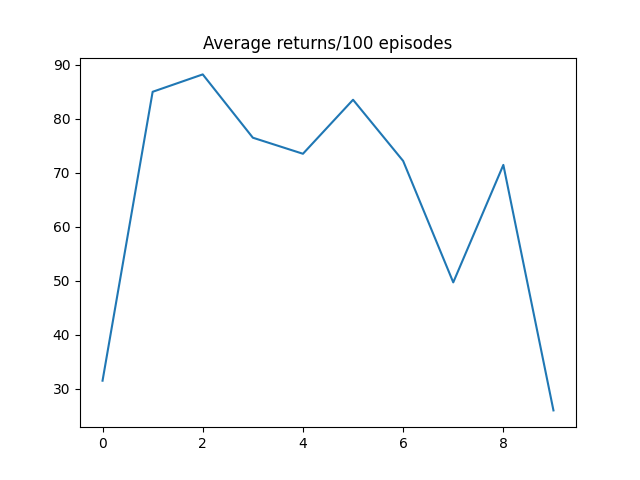
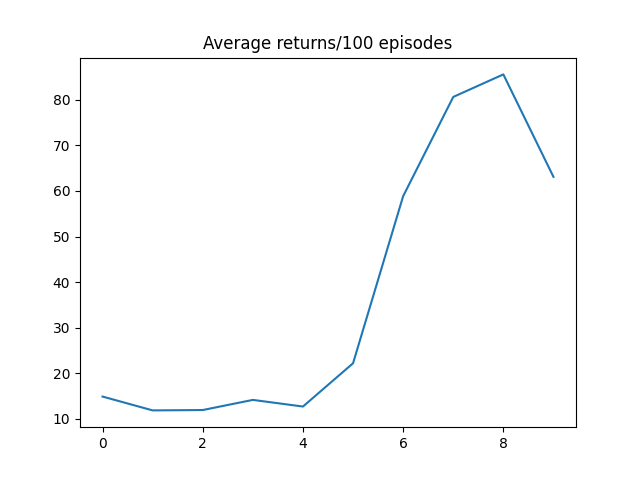
Adjust target value of final states. Learning is visible now!

diff --git a/dqn/agent.py b/dqn/agent.py
@@ -22,7 +22,8 @@ class DQNAgent:
                  epsilon_max: Optional[float] = None,
                  epsilon_min: Optional[float] = None,
                  epsilon_decay: Optional[float] = None,
-                 soft_update: bool = False):
+                 soft_update: bool = False,
+                 weight_copy_rate: int = 3000):
         """
         :param num_states: Number of states.
         :param num_actions: Number of actions.
@@ -48,10 +49,11 @@ class DQNAgent:
         self.buffer = ReplayBuffer(self.buffer_capacity, tuple([self.obs_dim])) # initialise replay buffer
 
         self.target_nn = QModel(obs_dim, num_actions) # setup w-
-        self.copy_nn()
+        #self.copy_nn()
 
         self.training_steps = 0 # keep count of the amount of training steps done (to replace target network)
         self.soft_update = soft_update
+        self.weight_copy_rate = weight_copy_rate
 
     def greedy_action(self, observation) -> int:
         """
@@ -98,7 +100,7 @@ class DQNAgent:
                 self.target_nn.state_dict()[weight_idx] = self.nn.state_dict()[weight_idx] * 0.005 + self.target_nn.state_dict()[weight_idx] * (1 - 0.005)
         else:
             self.training_steps += 1
-            if (self.training_steps == 10000): # chosen as constant, could also be a parameter. 1000 yields best average returns
+            if (self.training_steps == self.weight_copy_rate): # chosen as constant, could also be a parameter
                 self.training_steps = 0
                 self.copy_nn()
 
@@ -108,14 +110,17 @@ class DQNAgent:
         #q(St, a)
         state_action_values = self.nn(states) # [batch_size, 2]
         
-        idx = torch.unsqueeze(torch.from_numpy(actions), 1) # expand the dimension of actions to allow for use in torch.gather => [batch_size, 1]
+        idx = torch.unsqueeze(torch.from_numpy(actions), 1) # expand the nr of dimensions of actions to allow for use in torch.gather => [batch_size, 1]
         estimates = torch.gather(state_action_values, 1, idx) # get correct action_values
-        
+    
 
         # max qw-(St+1, a)
         with torch.no_grad():
-            next_state_values, _ = self.target_nn(next_states).max(1) # return max entry along axis 1
-        targets = torch.tensor(rewards) + (self.gamma * next_state_values) # [batch_size]
+            next_state_values= self.target_nn(next_states).max(1)[0] # return max entry along axis 1
+            for i in range(31):
+                if dones[i]:
+                    next_state_values[i] = 0 # ensure final states have target value of 0 !!!!
+        targets = torch.from_numpy(rewards) + (self.gamma * next_state_values)# [batch_size]
 
         criterion = torch.nn.MSELoss()
 
@@ -134,5 +139,7 @@ class DQNAgent:
 
     def copy_nn(self): # replaces w- with w
         self.learning_rate *= self.learning_rate
+        #self.weight_copy_rate *= 2
+        print("Copied weights")
         self.target_nn.load_state_dict(self.nn.state_dict())
 

diff --git a/dqn/runner.py b/dqn/runner.py
@@ -38,7 +38,7 @@ def run_episode(env: Env, agent: DQNAgent, training: bool, gamma) -> float:
 def train(env: Env, gamma: float, num_episodes: int, evaluate_every: int, num_evaluation_episodes: int,
           alpha: float, buffer_capacity: int, batch_size:int,
           epsilon_max: Optional[float] = None, epsilon_min: Optional[float] = None,
-          epsilon_decay: Optional[float] = None, soft_update: bool = False) -> Tuple[DQNAgent, ndarray, ndarray]:
+          epsilon_decay: Optional[float] = None, soft_update: bool = False, weight_copy_rate: int = 3000) -> Tuple[DQNAgent, ndarray, ndarray]:
     """
     Training loop.
 
@@ -56,7 +56,7 @@ def train(env: Env, gamma: float, num_episodes: int, evaluate_every: int, num_ev
     """
     digits = len(str(num_episodes))
     agent = DQNAgent(4, 2, alpha, gamma, buffer_capacity, batch_size, epsilon_max,
-                          epsilon_min, epsilon_decay, soft_update)
+                          epsilon_min, epsilon_decay, soft_update, weight_copy_rate)
     evaluation_returns = np.zeros(num_episodes // evaluate_every)
     returns = np.zeros(num_episodes)
     for episode in range(num_episodes):
@@ -70,6 +70,8 @@ def train(env: Env, gamma: float, num_episodes: int, evaluate_every: int, num_ev
             evaluation_returns[evaluation_step] = np.mean(cum_rewards_eval)
             print(f"Episode {(episode + 1): >{digits}}/{num_episodes:0{digits}}:\t"
                   f"Averaged evaluation return {evaluation_returns[evaluation_step]:0.3}")
+            
+            env.reset(seed=np.random.randint(0, 2500)) # use a different seed after every evaluation episode
     return agent, returns, evaluation_returns
 
 def plot_returns(returns, evaluation_returns):
@@ -85,7 +87,7 @@ def plot_returns(returns, evaluation_returns):
     fig1 = plt.figure()
     plt.title("Average returns/100 episodes")
     plt.plot(range(10), avg_returns)
-    fig1.savefig('cartpole_avg_returns_training')
+    fig1.savefig('cartpole_avg_returns_training.png')
 
     fig2 = plt.figure()
     plt.title("Avg evaluation return/eval. episode")
@@ -95,6 +97,6 @@ def plot_returns(returns, evaluation_returns):
 if __name__ == '__main__':
     env = gym.make('CartPole-v1')
     
-    agent, returns, eval_returns = train(env, .99, 1000, 50, 32, .01, 5000, 32, 1.0, .05, .99, False)
+    agent, returns, eval_returns = train(env, .99, 1000, 50, 32, .01, 10000, 32, 1.0, .05, .99, False, 4000)
     plot_returns(returns, eval_returns)
 

diff --git a/dqn/model.py b/dqn/model.py
@@ -1,6 +1,6 @@
 import torch
 import torch.nn as nn
-import torch.nn.functional as F
+import torch.nn.functional as F # deprecated..
 
 
 class QModel(nn.Module):
@@ -13,6 +13,6 @@ class QModel(nn.Module):
         if not isinstance(state, torch.Tensor):
             state = torch.Tensor(state)
         x = self.f1(state)
-        x = F.tanh(x)
+        x = torch.tanh(x)
         x = self.f2(x)
         return x
